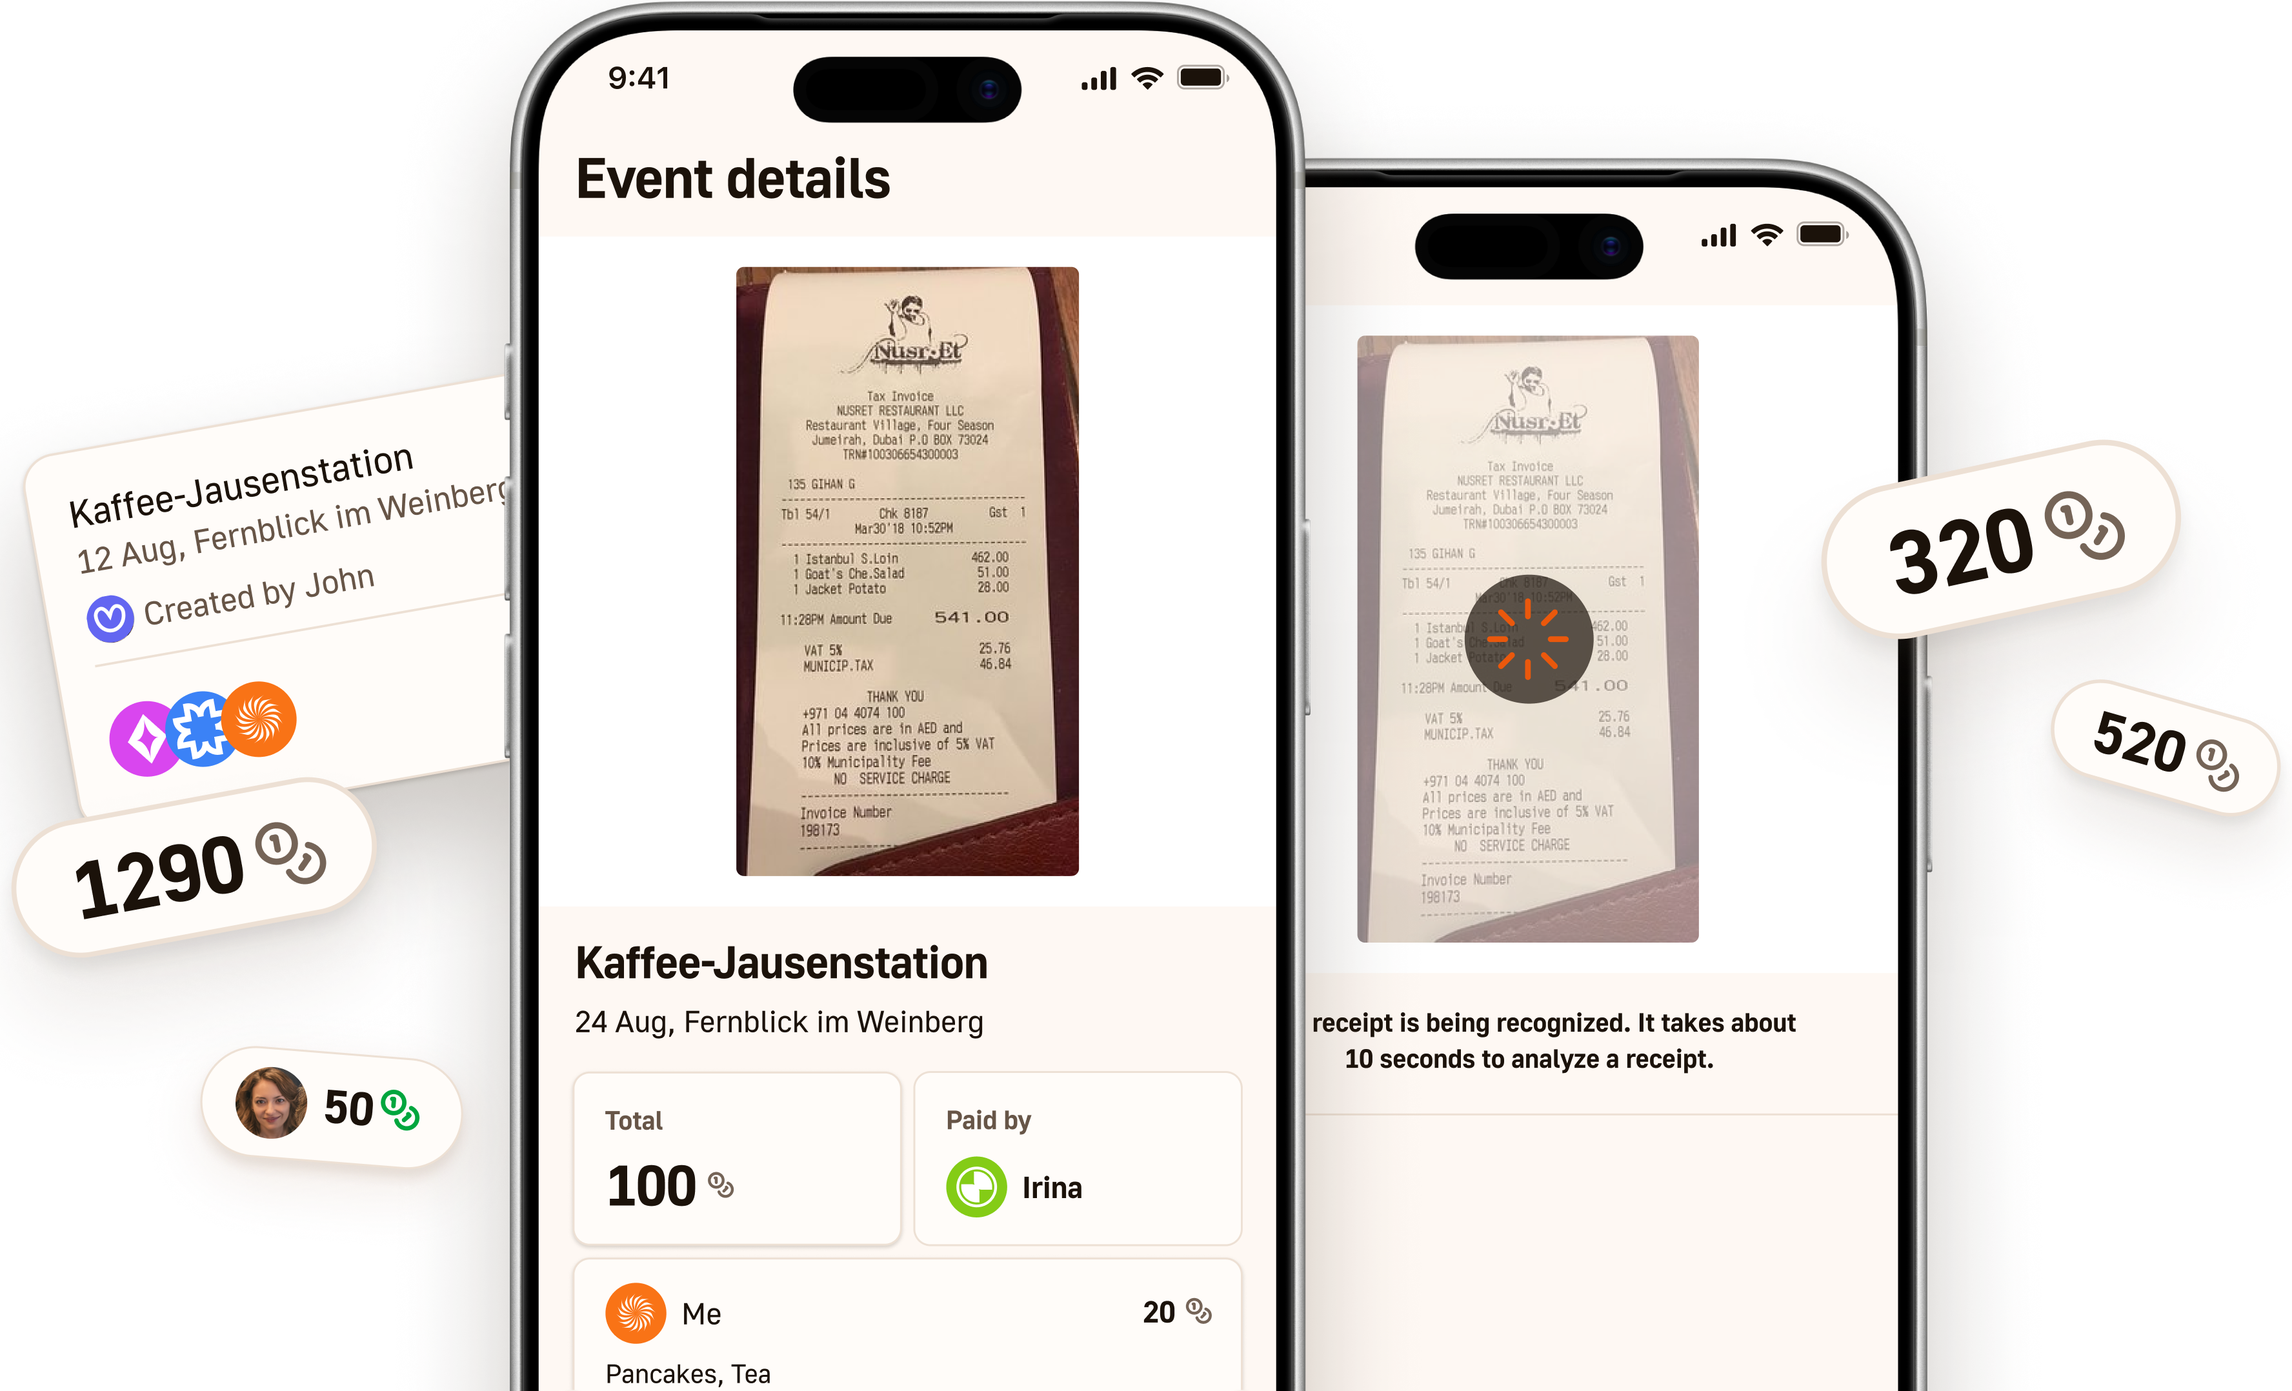
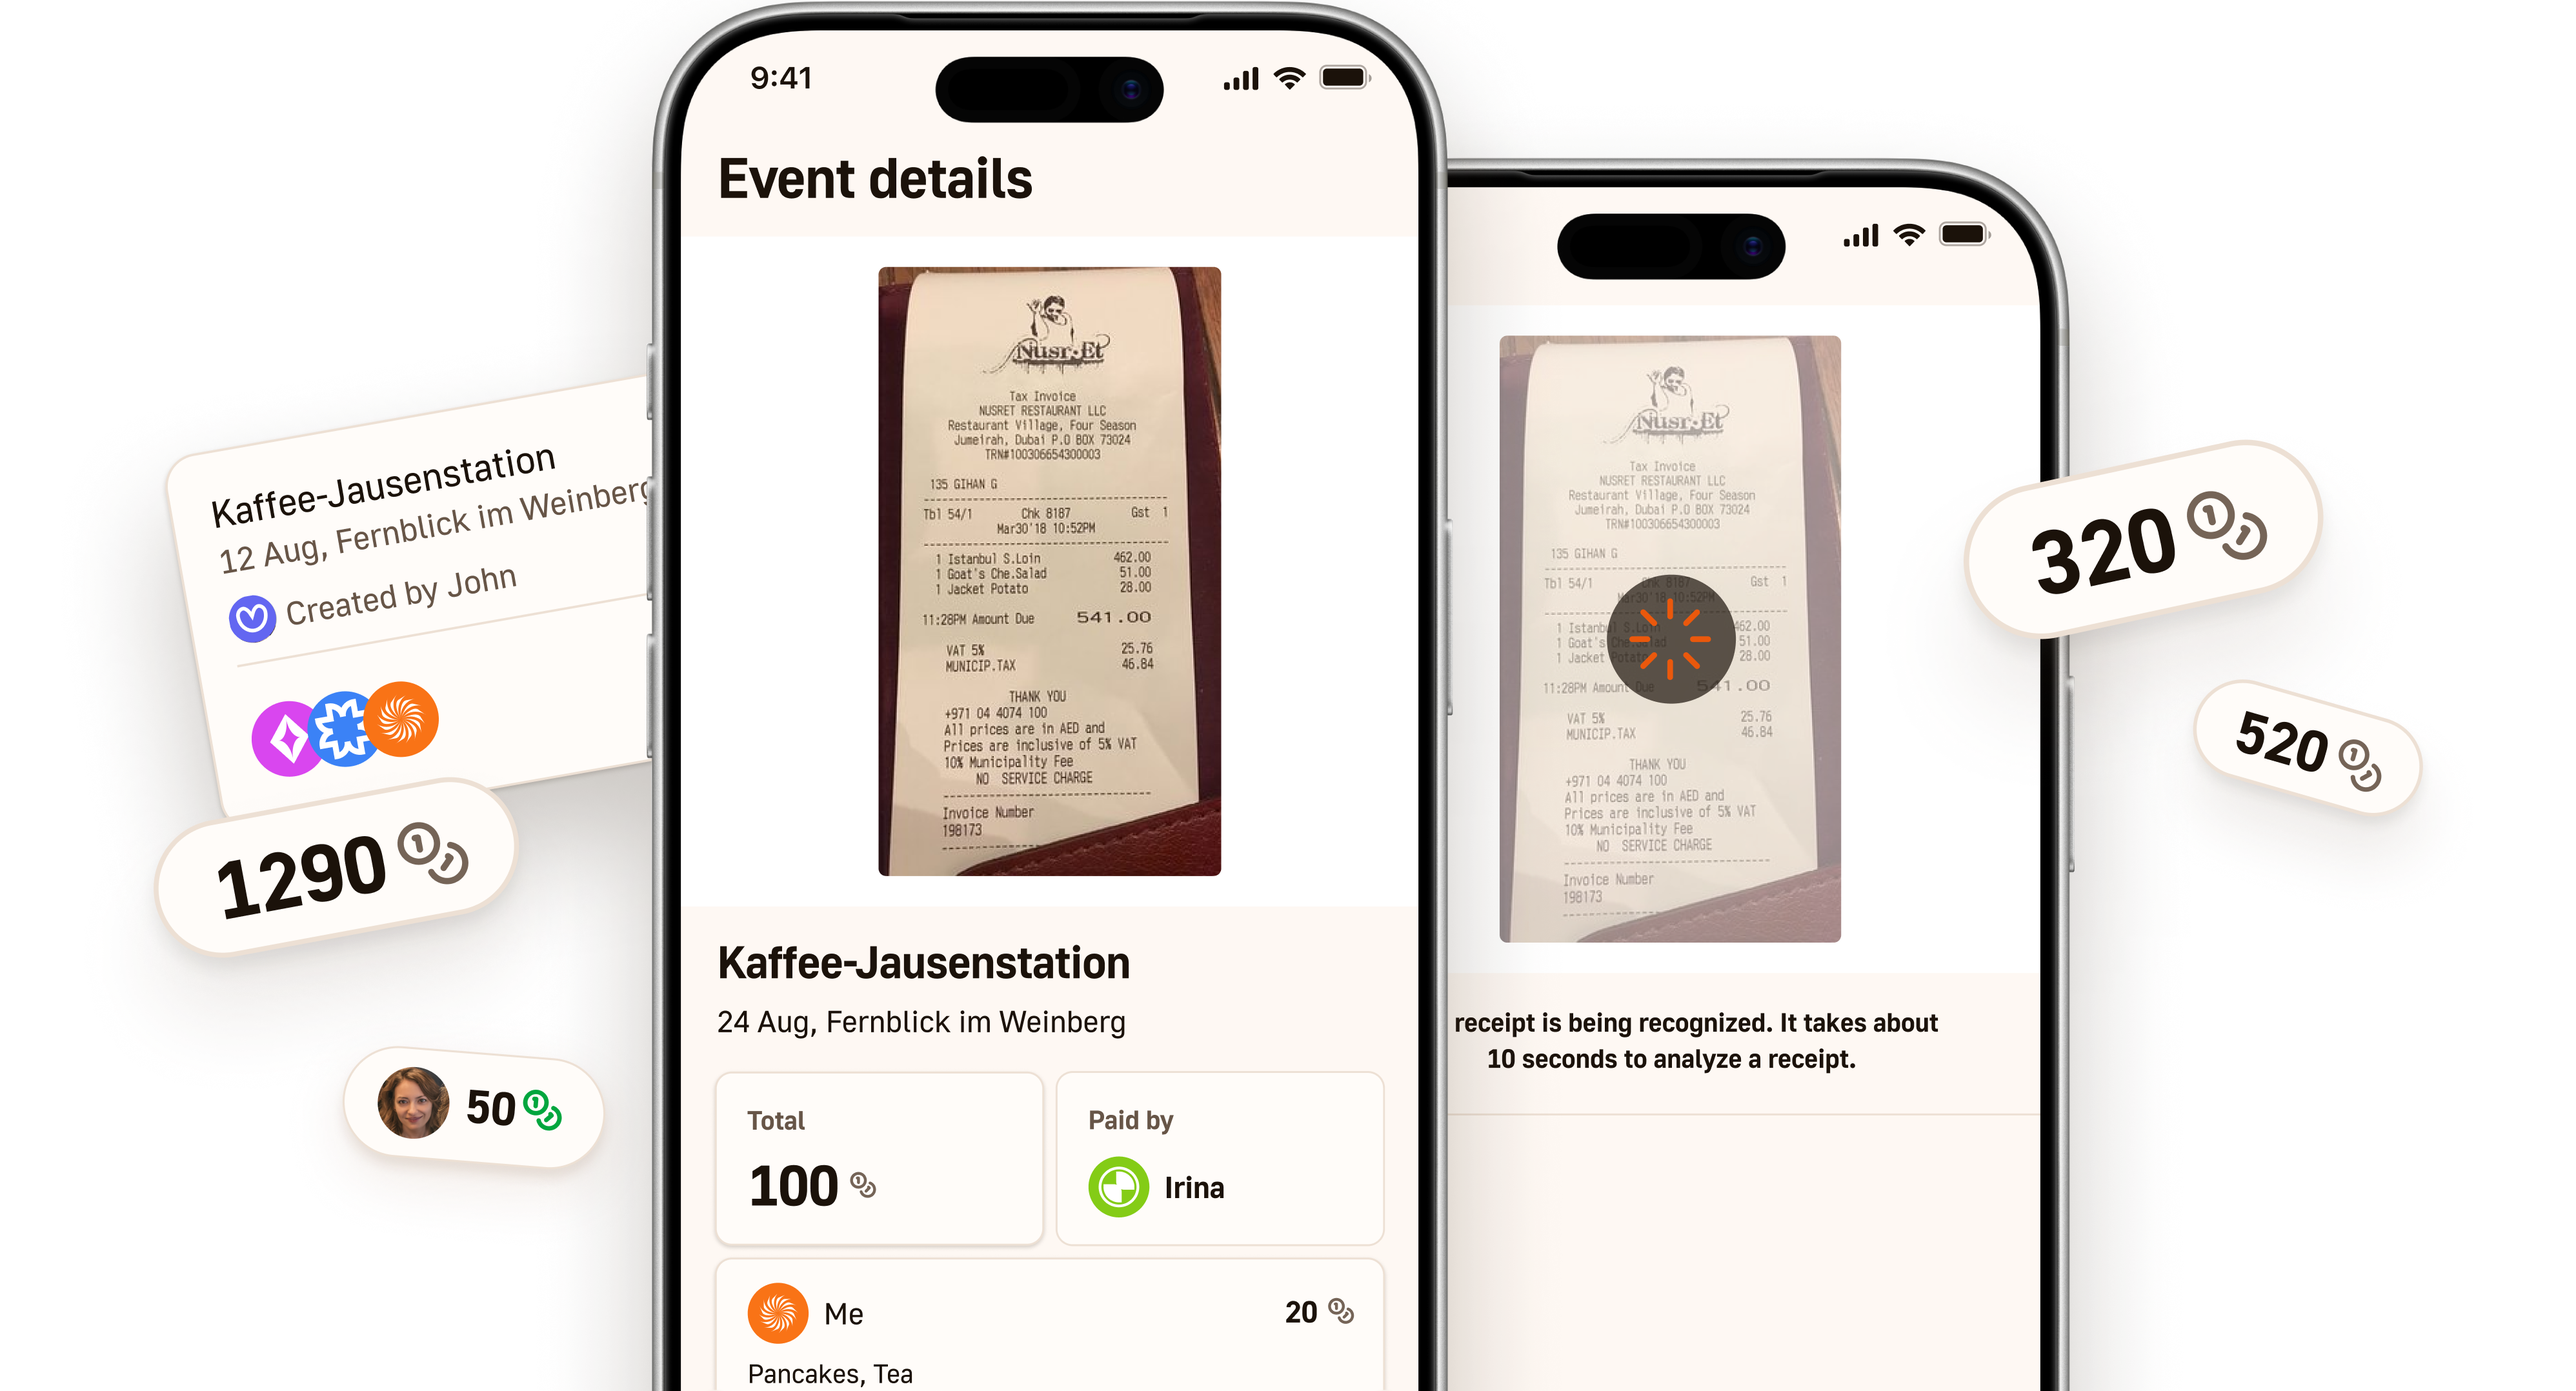
feat(hello): add hero section
Cream card w/ radial-fade grid bg, Evnly mask wordmark,
tagline, CTA, phone preview. Preview overflows on mobile.

diff --git a/src/routes/(public)/hello/sections/Hero.svelte b/src/routes/(public)/hello/sections/Hero.svelte
@@ -1,0 +1,43 @@
+<script lang="ts">
+  import Download from '@lucide/svelte/icons/download'
+  import { Button } from '$ui/button'
+</script>
+
+<div class="relative max-w-7xl mx-auto bg-[#ECE0D4] rounded-3xl overflow-hidden">
+  <img
+    src="/hello/hero-background-grid.svg"
+    alt=""
+    aria-hidden="true"
+    width="1408"
+    height="979"
+    class="absolute inset-0 w-full h-full object-cover pointer-events-none select-none"
+    style="mask-image: radial-gradient(ellipse 65% 55% at 50% 25%, #000 20%, transparent 100%); -webkit-mask-image: radial-gradient(ellipse 65% 55% at 50% 25%, #000 20%, transparent 100%);"
+  />
+
+  <div class="relative flex flex-col items-center text-center px-6 pt-16 md:px-12 md:pt-24">
+    <div
+      role="img"
+      aria-label="Evnly"
+      class="w-[70%] max-w-[560px] bg-[#56483C]"
+      style="aspect-ratio: 130 / 50; mask-image: url('/evnly.svg'); mask-repeat: no-repeat; mask-size: contain; mask-position: center; -webkit-mask-image: url('/evnly.svg'); -webkit-mask-repeat: no-repeat; -webkit-mask-size: contain; -webkit-mask-position: center;"
+    ></div>
+
+    <p class="mt-6 text-3xl md:text-[40px] font-medium text-[#56483C] leading-tight">
+      Scan Receipts<br />in One Tap
+    </p>
+
+    <Button href="#download" class="mt-8 rounded-full bg-primary text-primary-foreground hover:bg-primary/90">
+      Download Now
+      <Download class="size-4" />
+    </Button>
+
+    <img
+      src="/hello/hero-preview.png"
+      alt="Evnly app preview"
+      width="3992"
+      height="2156"
+      class="mt-10 w-[140%] max-w-none md:w-full md:max-w-5xl h-auto block"
+      style="aspect-ratio: 3992 / 2156"
+    />
+  </div>
+</div>

diff --git a/src/routes/(public)/hello/+page@.svelte b/src/routes/(public)/hello/+page@.svelte
@@ -1,11 +1,13 @@
 <script lang="ts">
   import Stats from './sections/Stats.svelte'
+  import Hero from './sections/Hero.svelte'
   import Header from './sections/Header.svelte'
 </script>
 
 <div id="top" class="relative z-0 min-h-screen bg-neutral-950 text-neutral-950">
   <Header />
   <main class="p-4 space-y-4">
+    <Hero />
     <Stats />
   </main>
 </div>
